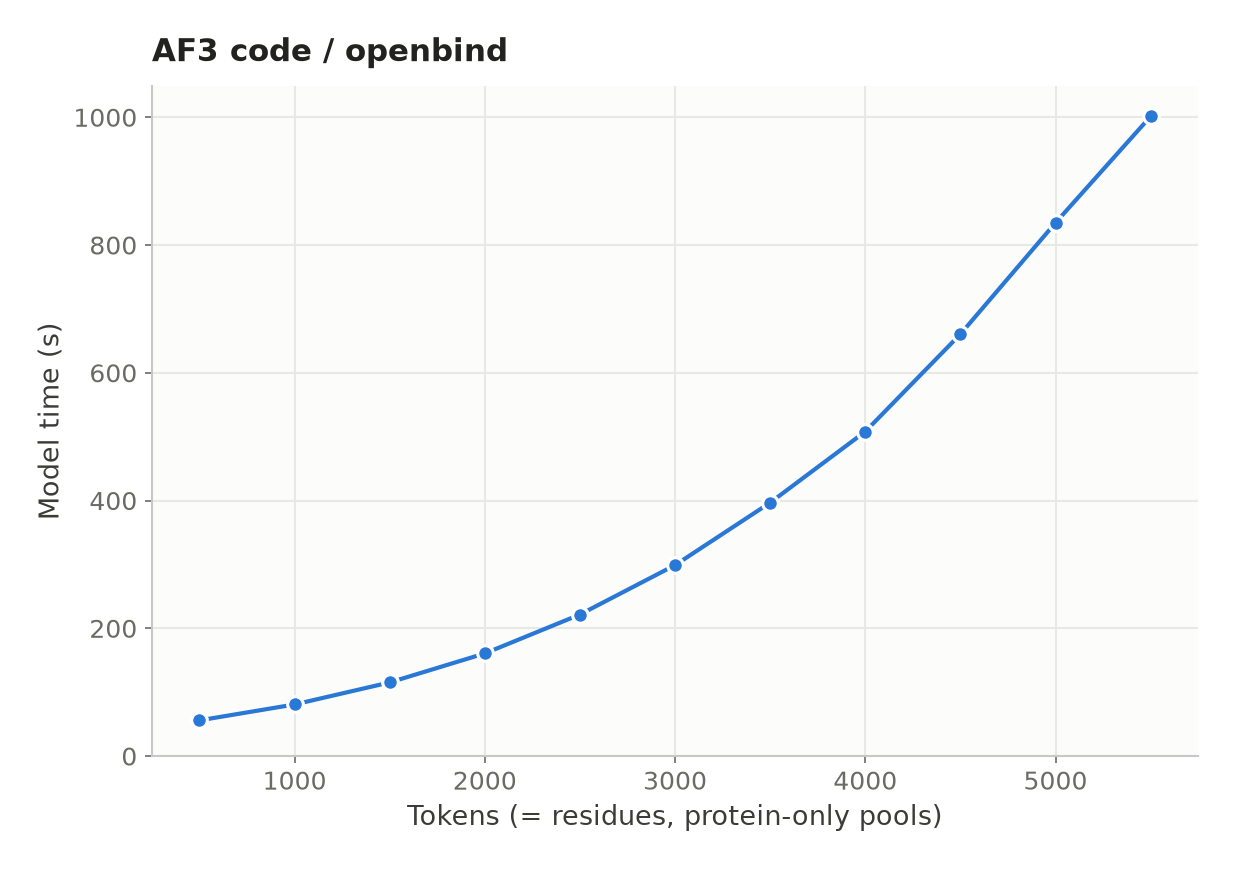
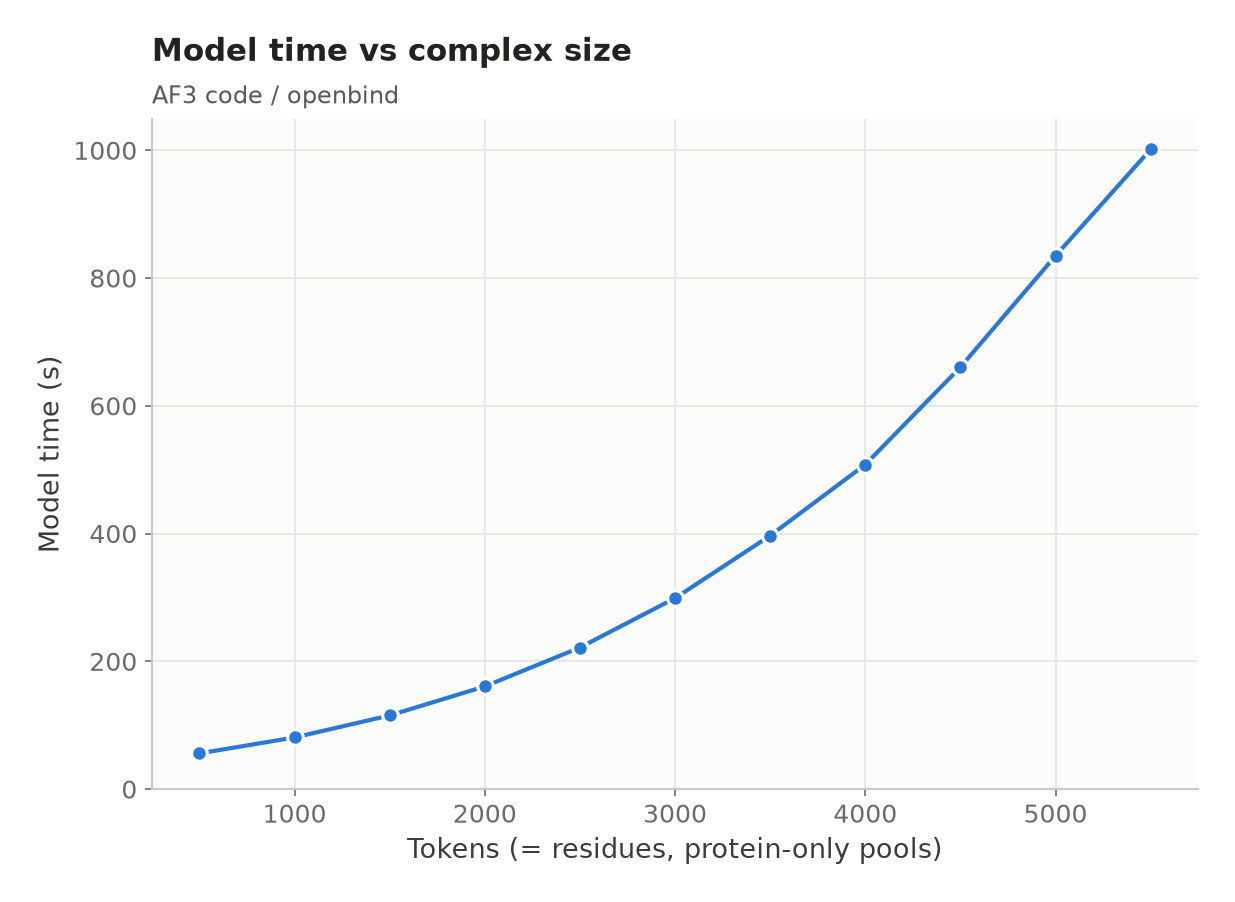
feat(plot): each figure titled by what it plots, the speed-up labelled on its marker
The set's title was being used as the title of every figure in the set, so the memory
figure and the runtime figure carried the same words and could only be told apart by
their axes. Each figure now leads with what it measures -- "Model time vs complex size",
"Peak live GPU memory vs complex size" -- and the set's title sits beneath it as a
quieter line saying which arms are being compared.

The speed-up moves out of the legend and onto the point it describes: the arm's marker at
the set's `speedup_at` size is drawn larger and labelled beside it, "1.64x faster than AF3
code / openbind (835 s)" on the kit's `big` at 5,000 tokens. A number in the legend had to
be carried back to the curve by the reader; on the marker it is where they are already
looking, and the vertical rule that pointed at the size is no longer needed.

Claude-Session: https://claude.ai/code/session_01QdUaxutDW82zkGoioTgKCt

diff --git a/profiling/plot_vram.py b/profiling/plot_vram.py
@@ -192,59 +192,59 @@ def plot_vram(arms: list[Arm], metric: str, out: Path, title: str | None) -> Pat
     ax.set_xlabel(X_LABEL)
     ax.set_ylabel("Peak live GPU memory (GiB)" if metric == "peak_alloc_gib"
                   else "Peak device memory, nvidia-smi (GiB)")
-    ax.set_title(title or ("Peak live GPU memory vs complex size" if metric == "peak_alloc_gib"
-                           else "Peak device memory vs complex size"))
+    fl.title(ax, "Peak live GPU memory vs complex size" if metric == "peak_alloc_gib"
+             else "Peak device memory vs complex size", title)
     if len(arms) > 1:
         fl.outside_legend(ax)
     return fl.save(fig, out / "vram_vs_tokens.png")
 
 
-def speedup_labels(arms: list[Arm], baseline: Arm | None, at_tokens: int | None) -> dict[str, str]:
-    """A legend suffix per arm: its model time at one token count, and how many times the
-    baseline's that is. The number belongs beside the curve it describes, and one size --
-    the one actually run in production -- is the one worth reading off exactly. An arm
-    with no row at that size gets no suffix rather than an interpolated one."""
+def annotate_speedup(ax, arms: list[Arm], baseline: Arm | None, at_tokens: int | None) -> None:
+    """Write each arm's speed-up over the baseline beside its own marker at one token count.
+
+    A direct label on the point it describes, rather than a number in the legend the reader
+    has to carry back to the curve. One size is labelled -- the one the pooled scheme
+    actually runs -- because a number on every point goes unread. An arm with no row there
+    is not labelled rather than interpolated."""
     if not at_tokens or baseline is None:
-        return {}
+        return
     base = baseline.ok_map("model_s").get(at_tokens)
     if base is None:
         print(f"  [WARN] speed-up at {at_tokens} tokens: the baseline {baseline.name} has no "
               f"model time there; the runtime figure is not annotated")
-        return {}
-    out = {baseline.name: f"{base:.0f} s at {at_tokens:,} tokens"}
+        return
     for arm in arms:
         if arm is baseline:
             continue
         value = arm.ok_map("model_s").get(at_tokens)
-        if value is not None:
-            out[arm.name] = f"{value:.0f} s at {at_tokens:,} tokens, {base / value:.2f}x faster"
-    return out
+        if value is None:
+            continue
+        # A ring in the surface colour lifts the labelled point off its curve.
+        ax.plot([at_tokens], [value], marker=fl.MARKER, ms=11, color=arm.style["color"],
+                markeredgecolor="white", markeredgewidth=2.5, zorder=5)
+        ax.annotate(f"{base / value:.2f}x faster than\n{baseline.label}  ({base:.0f} s)",
+                    xy=(at_tokens, value), xytext=(12, -6), textcoords="offset points",
+                    va="top", ha="left", fontsize=11, color=fl.INK_TEXT)
+        print(f"  {arm.name}: {value:.0f} s at {at_tokens:,} tokens, "
+              f"{base / value:.2f}x the baseline's {base:.0f} s")
 
 
 def plot_runtime(arms: list[Arm], out: Path, title: str | None, baseline: Arm | None = None,
                  at_tokens: int | None = None) -> Path | None:
     fig, ax = plt.subplots(figsize=(9.0, 5.8))
-    notes = speedup_labels(arms, baseline, at_tokens)
-    labels = {a.name: (f"{a.label}\n{notes[a.name]}" if a.name in notes else a.label) for a in arms}
     # A list, not a generator: any() would short-circuit and leave every arm after the
     # first one undrawn.
-    if not any([draw_line(ax, a, "model_s", labels[a.name]) for a in arms]):
+    if not any([draw_line(ax, a, "model_s") for a in arms]):
         plt.close(fig)
         print("  runtime_vs_tokens: no model_s values, skipping")
         return None
-    if notes:
-        # Where the numbers beside the curves were read off.
-        ax.axvline(at_tokens, color=fl.INK_FAINT, lw=1.2, ls="--", zorder=0)
-        ax.text(at_tokens, 0.02, f"{at_tokens:,} tokens ", rotation=90, va="bottom", ha="right",
-                transform=ax.get_xaxis_transform(), fontsize=10.5, color=fl.INK_MUTED)
+    annotate_speedup(ax, arms, baseline, at_tokens)
     ax.set_xlabel(X_LABEL)
     ax.set_ylabel("Model time (s)")
-    ax.set_title(title or "Featurisation + inference vs complex size")
+    fl.title(ax, "Model time vs complex size", title)
     ax.set_ylim(bottom=0)
     if len(arms) > 1:
         fl.outside_legend(ax)
-    for name, note in notes.items():
-        print(f"  {name}: {note}")
     return fl.save(fig, out / "runtime_vs_tokens.png")
 
 

diff --git a/scripts/figure_layout.py b/scripts/figure_layout.py
@@ -235,6 +235,18 @@ def styles_for(arms: list[str], path: Path = STYLE_FILE) -> dict[str, dict]:
     return {a: styles[a] for a in arms}
 
 
+def title(ax, headline: str, subtitle: str | None = None) -> None:
+    """A figure's own headline, with the comparison it belongs to as a quieter line beneath.
+
+    The set's title says which arms are being compared; it does not say what the figure
+    plots, and reusing it as the title left memory and runtime figures that could only be
+    told apart by their axes. The headline names the measurement, the subtitle the set."""
+    ax.set_title(headline, pad=28 if subtitle else 12)
+    if subtitle:
+        ax.text(0.0, 1.015, subtitle, transform=ax.transAxes, va="bottom", ha="left",
+                fontsize=11.5, color=INK_TEXT)
+
+
 def outside_legend(ax, **kwargs) -> None:
     """Legend to the right of the axes, so it can never cover a data point."""
     ax.legend(loc="upper left", bbox_to_anchor=(1.02, 1.0), borderaxespad=0.0, **kwargs)

diff --git a/profiling/README.md b/profiling/README.md
@@ -267,7 +267,7 @@ accumulates and no figure outlives the table beside it:
 | file | what |
 |---|---|
 | `vram_vs_tokens.png` | peak memory vs tokens, absolute |
-| `runtime_vs_tokens.png` | model time vs tokens, absolute. Where a set names a `speedup_at` token count, each curve's legend entry also carries its model time there and how many times the baseline's that is -- 5,000 tokens for `of3kit_rtxpro6000`, the size the pooled scheme actually runs |
+| `runtime_vs_tokens.png` | model time vs tokens, absolute. Where a set names a `speedup_at` token count, each arm's marker at that size is labelled with its speed-up over the baseline -- 5,000 tokens for `of3kit_rtxpro6000`, the size the pooled scheme actually runs |
 | `ratio_vs_tokens.png` | every arm **relative to the production engine** on that card: speed-up (baseline time / arm time, >1 faster) and peak memory as a fraction of the baseline's (<1 less), at the token counts both ran. Sweeps with a baseline only |
 | `metrics.tsv` | every plotted row, host columns dropped |
 | `manifest.json` | the arms in legend order, the baseline, each arm's source table and row count, the figures written, the commit that drew them |
